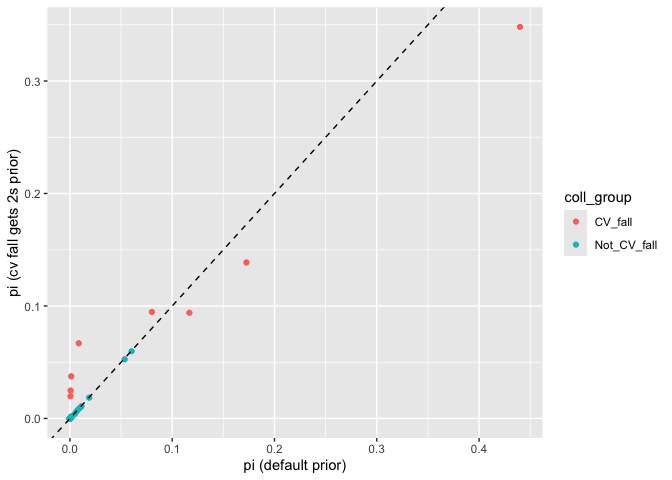
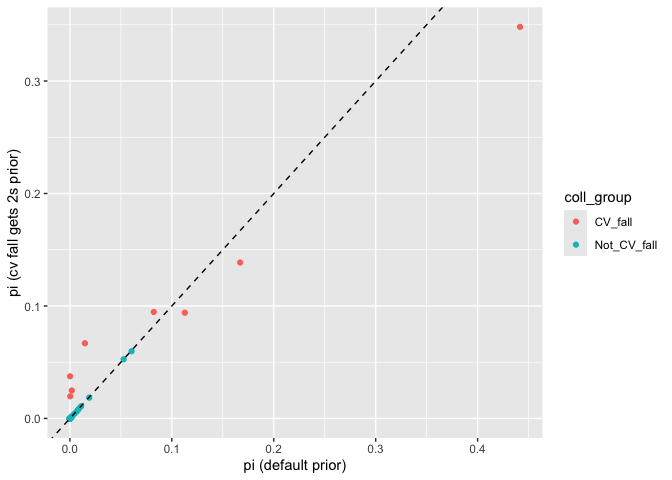
Rebuild readme. Buildignore .github

diff --git a/README.md b/README.md
@@ -1,6 +1,6 @@
 rubias — genetic stock identification (GSI) in the tidyverse
 ================
-15 October, 2025
+16 October, 2025
 
 - [Input Data](#input-data)
   - [How about haploid markers?](#how-about-haploid-markers)
@@ -371,11 +371,11 @@ the default options:
 mix_est <- infer_mixture(reference = chinook, 
                          mixture = chinook_mix, 
                          gen_start_col = 5)
-#> Collating data; compiling reference allele frequencies, etc.   time: 0.84 seconds
+#> Collating data; compiling reference allele frequencies, etc.   time: 0.83 seconds
 #> Computing reference locus specific means and variances for computing mixture z-scores   time: 0.10 seconds
 #> Working on mixture collection: rec2 with 772 individuals
 #>   calculating log-likelihoods of the mixture individuals.   time: 0.07 seconds
-#>   performing 2000 total sweeps, 100 of which are burn-in and will not be used in computing averages in method "MCMC"   time: 0.55 seconds
+#>   performing 2000 total sweeps, 100 of which are burn-in and will not be used in computing averages in method "MCMC"   time: 0.54 seconds
 #>   tidying output into a tibble.   time: 0.03 seconds
 #> Working on mixture collection: rec1 with 743 individuals
 #>   calculating log-likelihoods of the mixture individuals.   time: 0.06 seconds
@@ -383,7 +383,7 @@ mix_est <- infer_mixture(reference = chinook,
 #>   tidying output into a tibble.   time: 0.03 seconds
 #> Working on mixture collection: rec3 with 741 individuals
 #>   calculating log-likelihoods of the mixture individuals.   time: 0.06 seconds
-#>   performing 2000 total sweeps, 100 of which are burn-in and will not be used in computing averages in method "MCMC"   time: 0.52 seconds
+#>   performing 2000 total sweeps, 100 of which are burn-in and will not be used in computing averages in method "MCMC"   time: 0.51 seconds
 #>   tidying output into a tibble.   time: 0.03 seconds
 ```
 
@@ -418,23 +418,23 @@ lapply(mix_est, head)
 #> # A tibble: 6 × 4
 #>   mixture_collection repunit         collection                  pi
 #>   <chr>              <chr>           <chr>                    <dbl>
-#> 1 rec2               CentralValleyfa Feather_H_sp         0.0811   
-#> 2 rec2               CentralValleysp Butte_Cr_Sp          0.0000416
-#> 3 rec2               CentralValleysp Mill_Cr_sp           0.0000445
-#> 4 rec2               CentralValleysp Deer_Cr_sp           0.0000642
-#> 5 rec2               CentralValleysp UpperSacramento_R_sp 0.000695 
-#> 6 rec2               CentralValleyfa Feather_H_fa         0.150    
+#> 1 rec2               CentralValleyfa Feather_H_sp         0.0819   
+#> 2 rec2               CentralValleysp Butte_Cr_Sp          0.0000443
+#> 3 rec2               CentralValleysp Mill_Cr_sp           0.0000426
+#> 4 rec2               CentralValleysp Deer_Cr_sp           0.0000383
+#> 5 rec2               CentralValleysp UpperSacramento_R_sp 0.000380 
+#> 6 rec2               CentralValleyfa Feather_H_fa         0.147    
 #> 
 #> $indiv_posteriors
 #> # A tibble: 6 × 10
 #>   mixture_collection indiv   repunit  collection     PofZ log_likelihood z_score
 #>   <chr>              <chr>   <chr>    <chr>         <dbl>          <dbl>   <dbl>
-#> 1 rec2               T124711 Central… Feather_H… 1.87e-28          -137.   -13.1
-#> 2 rec2               T124711 Central… Feather_H… 9.89e-28          -136.   -12.6
-#> 3 rec2               T124711 Central… Butte_Cr_… 1.55e-24          -130.   -10.5
-#> 4 rec2               T124711 Central… Mill_Cr_fa 1.55e-29          -135.   -11.8
-#> 5 rec2               T124711 Central… Deer_Cr_fa 3.95e-28          -134.   -11.6
-#> 6 rec2               T124711 Central… Mokelumne… 1.76e-27          -134.   -12.3
+#> 1 rec2               T124711 Central… Feather_H… 1.86e-28          -137.   -13.1
+#> 2 rec2               T124711 Central… Feather_H… 9.66e-28          -136.   -12.6
+#> 3 rec2               T124711 Central… Butte_Cr_… 1.53e-24          -130.   -10.5
+#> 4 rec2               T124711 Central… Mill_Cr_fa 2.80e-29          -135.   -11.8
+#> 5 rec2               T124711 Central… Deer_Cr_fa 1.82e-28          -134.   -11.6
+#> 6 rec2               T124711 Central… Mokelumne… 1.94e-27          -134.   -12.3
 #> # ℹ 3 more variables: n_non_miss_loci <int>, n_miss_loci <int>,
 #> #   missing_loci <list>
 #> 
@@ -498,7 +498,7 @@ mix_est_with_prior <- infer_mixture(reference = chinook,
                          mixture = chinook_mix, 
                          gen_start_col = 5,
                          pi_prior = prior_tibble)
-#> Collating data; compiling reference allele frequencies, etc.   time: 0.68 seconds
+#> Collating data; compiling reference allele frequencies, etc.   time: 0.66 seconds
 #> Computing reference locus specific means and variances for computing mixture z-scores   time: 0.10 seconds
 #> Working on mixture collection: rec2 with 772 individuals
 #> Joining with `by = join_by(collection)`  calculating log-likelihoods of the mixture individuals.   time: 0.07 seconds
@@ -506,11 +506,11 @@ mix_est_with_prior <- infer_mixture(reference = chinook,
 #>   tidying output into a tibble.   time: 0.03 seconds
 #> Working on mixture collection: rec1 with 743 individuals
 #> Joining with `by = join_by(collection)`  calculating log-likelihoods of the mixture individuals.   time: 0.06 seconds
-#>   performing 2000 total sweeps, 100 of which are burn-in and will not be used in computing averages in method "MCMC"   time: 0.53 seconds
+#>   performing 2000 total sweeps, 100 of which are burn-in and will not be used in computing averages in method "MCMC"   time: 0.52 seconds
 #>   tidying output into a tibble.   time: 0.03 seconds
 #> Working on mixture collection: rec3 with 741 individuals
 #> Joining with `by = join_by(collection)`  calculating log-likelihoods of the mixture individuals.   time: 0.06 seconds
-#>   performing 2000 total sweeps, 100 of which are burn-in and will not be used in computing averages in method "MCMC"   time: 0.53 seconds
+#>   performing 2000 total sweeps, 100 of which are burn-in and will not be used in computing averages in method "MCMC"   time: 0.52 seconds
 #>   tidying output into a tibble.   time: 0.03 seconds
 ```
 
@@ -638,12 +638,12 @@ top6_cis
 #> # A tibble: 6 × 3
 #>   repunit                     loCI   hiCI
 #>   <chr>                      <dbl>  <dbl>
-#> 1 CaliforniaCoast         1.90e- 2 0.0437
+#> 1 CaliforniaCoast         1.86e- 2 0.0437
 #> 2 CentralValleyfa         7.90e- 1 0.848 
-#> 3 KlamathR                4.99e- 2 0.0874
-#> 4 NCaliforniaSOregonCoast 2.90e- 3 0.0188
-#> 5 RogueR                  4.37e- 2 0.0818
-#> 6 UColumbiaRsufa          3.98e-17 0.0125
+#> 3 KlamathR                4.95e- 2 0.0865
+#> 4 NCaliforniaSOregonCoast 3.12e- 3 0.0184
+#> 5 RogueR                  4.36e- 2 0.0814
+#> 6 UColumbiaRsufa          2.45e-18 0.0122
 ```
 
 ## Assessing whether individuals are not from any of the reference populations
@@ -1113,11 +1113,11 @@ top6
 #>   mixture_collection repunit                 repprop
 #>   <chr>              <chr>                     <dbl>
 #> 1 rec1               CentralValleyfa         0.821  
-#> 2 rec1               KlamathR                0.0665 
-#> 3 rec1               RogueR                  0.0611 
-#> 4 rec1               CaliforniaCoast         0.0301 
-#> 5 rec1               NCaliforniaSOregonCoast 0.00944
-#> 6 rec1               UColumbiaRsufa          0.00494
+#> 2 rec1               KlamathR                0.0669 
+#> 3 rec1               RogueR                  0.0606 
+#> 4 rec1               CaliforniaCoast         0.0300 
+#> 5 rec1               NCaliforniaSOregonCoast 0.00923
+#> 6 rec1               UColumbiaRsufa          0.00430
 ```
 
 We could, if we put those `repprop` values into a `ppn` column, simulate
@@ -1156,11 +1156,11 @@ arep
 #>   repunit                 dirichlet
 #>   <chr>                       <dbl>
 #> 1 CentralValleyfa            8.21  
-#> 2 KlamathR                   0.665 
-#> 3 RogueR                     0.611 
-#> 4 CaliforniaCoast            0.301 
-#> 5 NCaliforniaSOregonCoast    0.0944
-#> 6 UColumbiaRsufa             0.0494
+#> 2 KlamathR                   0.669 
+#> 3 RogueR                     0.606 
+#> 4 CaliforniaCoast            0.300 
+#> 5 NCaliforniaSOregonCoast    0.0923
+#> 6 UColumbiaRsufa             0.0430
 ```
 
 Let’s do some simulations with those repunit parameters. By default, if
@@ -1394,11 +1394,11 @@ arep
 #>   repunit                 dirichlet
 #>   <chr>                       <dbl>
 #> 1 CentralValleyfa            8.21  
-#> 2 KlamathR                   0.665 
-#> 3 RogueR                     0.611 
-#> 4 CaliforniaCoast            0.301 
-#> 5 NCaliforniaSOregonCoast    0.0944
-#> 6 UColumbiaRsufa             0.0494
+#> 2 KlamathR                   0.669 
+#> 3 RogueR                     0.606 
+#> 4 CaliforniaCoast            0.300 
+#> 5 NCaliforniaSOregonCoast    0.0923
+#> 6 UColumbiaRsufa             0.0430
 ```
 
 But, now, let’s say that within reporting unit we want specific weights
@@ -1454,26 +1454,26 @@ chin_sims_sub_ppn %>%
 #> # Groups:   repunit [6]
 #>    repunit                 collection       mean_pi repunit_mean_pi fract_within
 #>    <chr>                   <chr>              <dbl>           <dbl>        <dbl>
-#>  1 CaliforniaCoast         Eel_R            3.24e-3         0.0324         0.1  
-#>  2 CaliforniaCoast         Russian_R        2.92e-2         0.0324         0.9  
-#>  3 CentralValleyfa         Battle_Cr        8.43e-8         0.843          0    
-#>  4 CentralValleyfa         Butte_Cr_fa      5.90e-1         0.843          0.700
-#>  5 CentralValleyfa         Deer_Cr_fa       8.43e-8         0.843          0    
-#>  6 CentralValleyfa         Feather_H_fa     8.43e-8         0.843          0    
-#>  7 CentralValleyfa         Feather_H_sp     2.53e-1         0.843          0.300
-#>  8 CentralValleyfa         Mill_Cr_fa       8.43e-8         0.843          0    
-#>  9 CentralValleyfa         Mokelumne_R_fa   8.43e-8         0.843          0    
-#> 10 CentralValleyfa         Sacramento_R_lf  8.43e-8         0.843          0    
-#> 11 KlamathR                Klamath_IGH_fa   2.67e-2         0.0534         0.5  
-#> 12 KlamathR                Trinity_H_sp     2.67e-2         0.0534         0.5  
-#> 13 NCaliforniaSOregonCoast Chetco_R         4.22e-3         0.00845        0.5  
-#> 14 NCaliforniaSOregonCoast Smith_R          4.22e-3         0.00845        0.5  
-#> 15 RogueR                  Applegate_Cr     2.53e-2         0.0506         0.5  
-#> 16 RogueR                  Cole_Rivers_H    2.53e-2         0.0506         0.5  
-#> 17 UColumbiaRsufa          Hanford_Reach    3.01e-3         0.0120         0.25 
-#> 18 UColumbiaRsufa          PriestRapids_H   3.01e-3         0.0120         0.25 
-#> 19 UColumbiaRsufa          Wells_H          3.01e-3         0.0120         0.25 
-#> 20 UColumbiaRsufa          Wenatchee_R      3.01e-3         0.0120         0.25
+#>  1 CaliforniaCoast         Eel_R            3.65e-3          0.0365        0.1  
+#>  2 CaliforniaCoast         Russian_R        3.29e-2          0.0365        0.9  
+#>  3 CentralValleyfa         Battle_Cr        8.25e-8          0.825         0    
+#>  4 CentralValleyfa         Butte_Cr_fa      5.77e-1          0.825         0.700
+#>  5 CentralValleyfa         Deer_Cr_fa       8.25e-8          0.825         0    
+#>  6 CentralValleyfa         Feather_H_fa     8.25e-8          0.825         0    
+#>  7 CentralValleyfa         Feather_H_sp     2.47e-1          0.825         0.300
+#>  8 CentralValleyfa         Mill_Cr_fa       8.25e-8          0.825         0    
+#>  9 CentralValleyfa         Mokelumne_R_fa   8.25e-8          0.825         0    
+#> 10 CentralValleyfa         Sacramento_R_lf  8.25e-8          0.825         0    
+#> 11 KlamathR                Klamath_IGH_fa   3.07e-2          0.0613        0.5  
+#> 12 KlamathR                Trinity_H_sp     3.07e-2          0.0613        0.5  
+#> 13 NCaliforniaSOregonCoast Chetco_R         5.77e-3          0.0115        0.5  
+#> 14 NCaliforniaSOregonCoast Smith_R          5.77e-3          0.0115        0.5  
+#> 15 RogueR                  Applegate_Cr     2.78e-2          0.0557        0.5  
+#> 16 RogueR                  Cole_Rivers_H    2.78e-2          0.0557        0.5  
+#> 17 UColumbiaRsufa          Hanford_Reach    2.59e-3          0.0104        0.25 
+#> 18 UColumbiaRsufa          PriestRapids_H   2.59e-3          0.0104        0.25 
+#> 19 UColumbiaRsufa          Wells_H          2.59e-3          0.0104        0.25 
+#> 20 UColumbiaRsufa          Wenatchee_R      2.59e-3          0.0104        0.25
 ```
 
 ## Multiple simulation scenarios and “100% Simulations”

diff --git a/cran-comments.md b/cran-comments.md
@@ -50,8 +50,10 @@ WINDOWS RHUB, Windows Server 2022, R-devel, 64 bit: 0 errors | 0 warnings | 3 no
   - 1 note =  GNU make is a SystemRequirements (this is for RcppParallel)
   - 1 note = Found the following files/directories: ''NULL''  (This seems to be an issue with the check process)
   - 1 note = Found the following files/directories: 'lastMiKTeXException' (PC Latex exception of some sort?)
-WINDOWS check_win RELEASE, 4.1.2, win-builder: 0 errors | 0 warnings | 0 notes
-WINDOWS check_win DEVEL, (2022-02-07 r81667 ucrt), win-builder: 0 errors | 0 warnings | 0 notes
+WINDOWS check_win RELEASE, 4.5.1, win-builder: 0 errors | 0 warnings | 1 notes
+  - 1 note = hecking CRAN incoming feasibility because my email address has changed
+WINDOWS check_win DEVEL, (2022-02-07 r81667 ucrt), win-builder: 0 errors | 0 warnings | 1 notes
+  - 1 note = hecking CRAN incoming feasibility because my email address has changed
 
 
 
